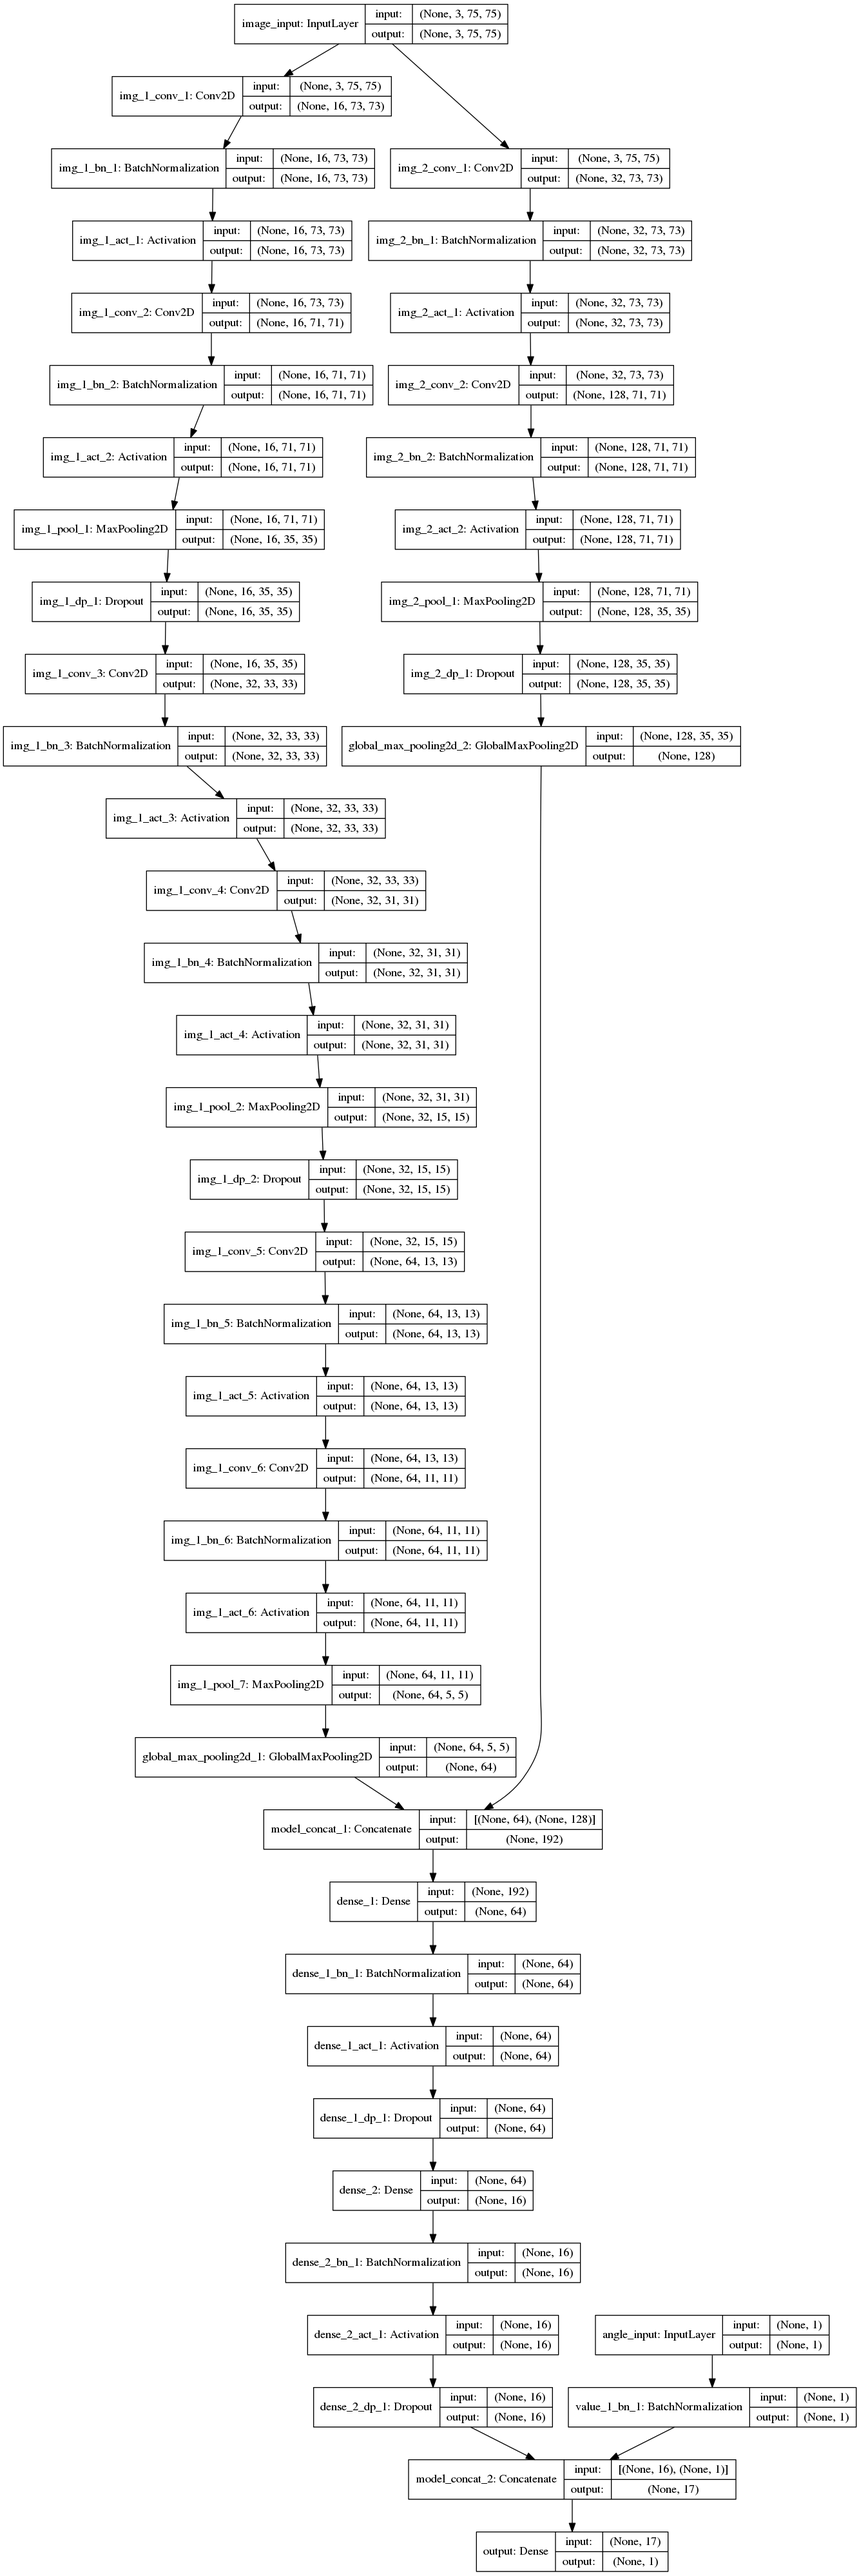
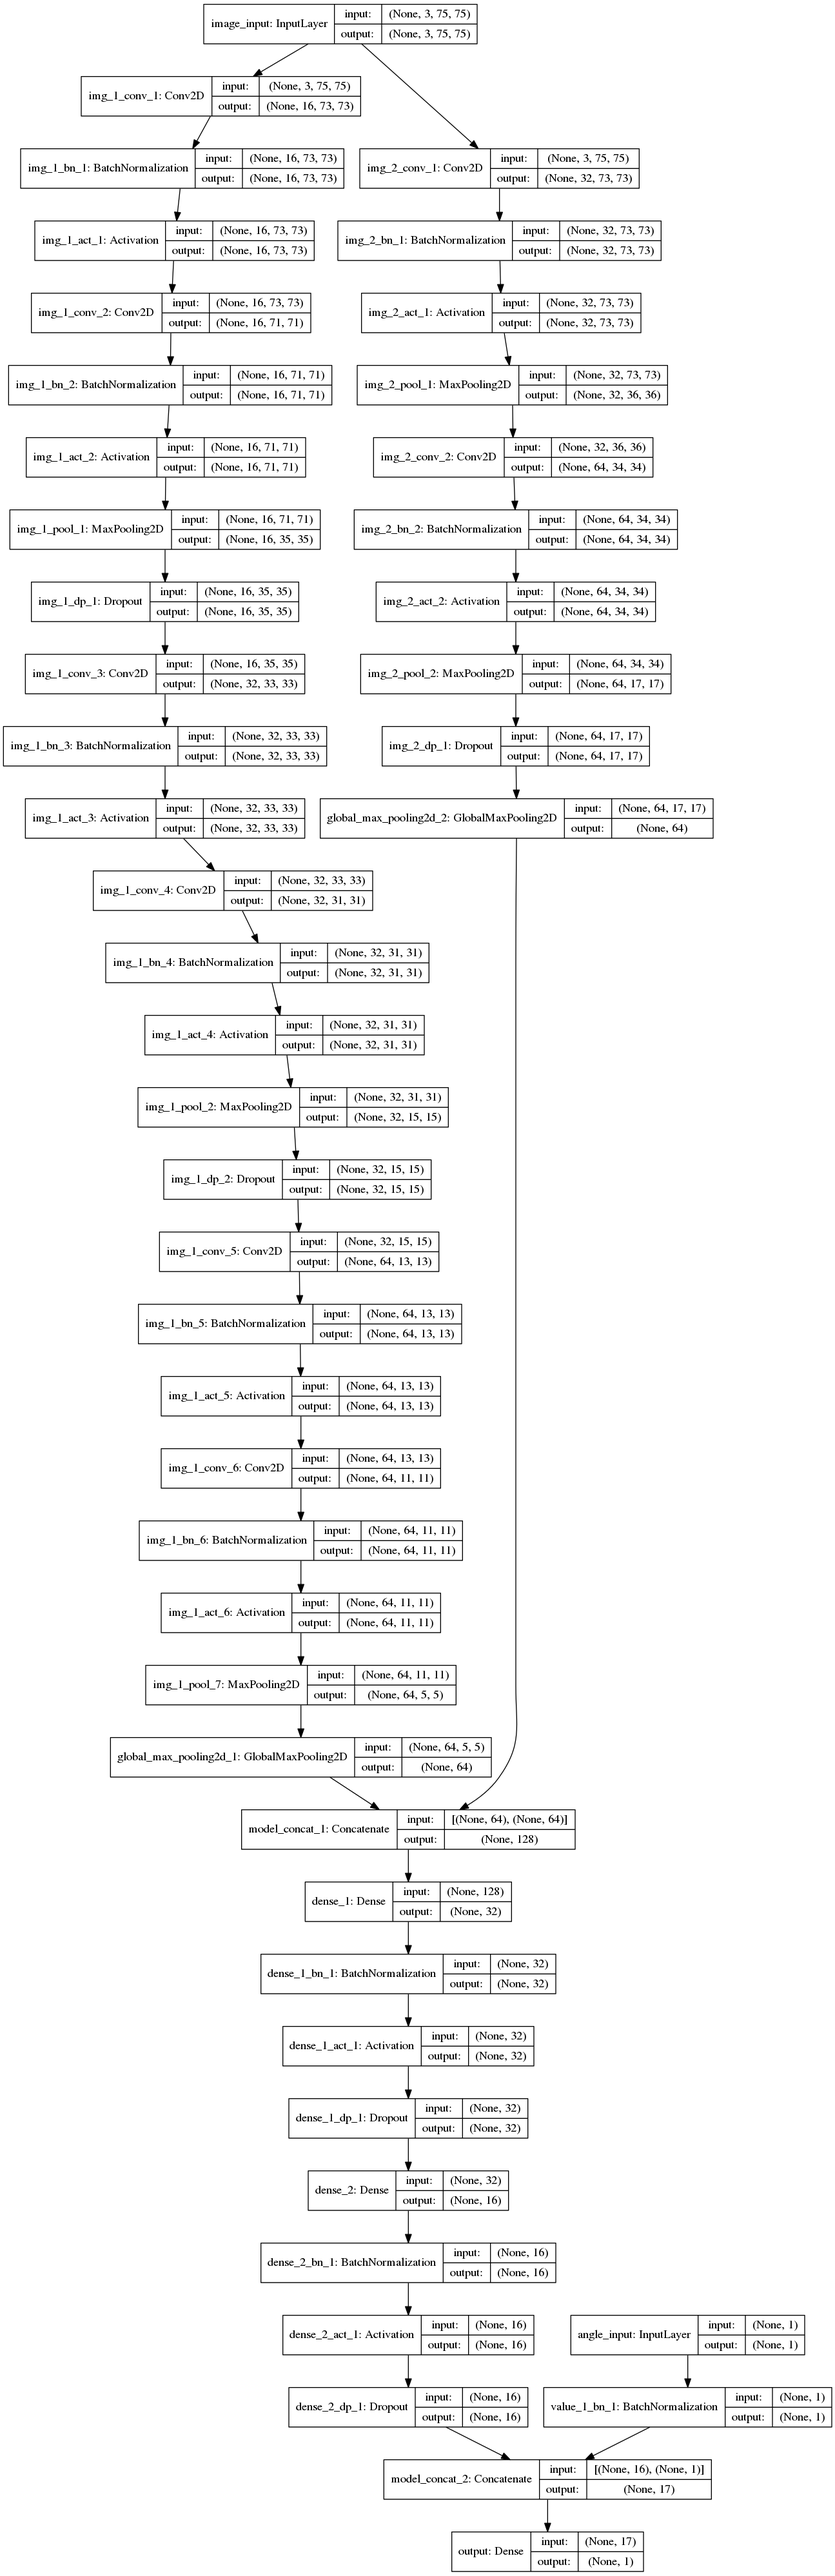
mini fixes

diff --git a/models/model/simple.py b/models/model/simple.py
@@ -58,7 +58,7 @@ def model(weights_path=None):
 
     _img_2 = MaxPooling2D((2, 2), name="img_2_pool_1")(_img_2)
 
-    _img_2 = Conv2D(128, (3, 3), name="img_2_conv_2")(_img_2)
+    _img_2 = Conv2D(64, (3, 3), name="img_2_conv_2")(_img_2)
     _img_2 = BatchNormalization(axis=1, name="img_2_bn_2")(_img_2)
     _img_2 = Activation(act, name="img_2_act_2")(_img_2)
 
@@ -69,7 +69,7 @@ def model(weights_path=None):
 
     _concat_1 = layers.concatenate([_img_1, _img_2], name='model_concat_1')
 
-    _dense_1 = Dense(64, kernel_regularizer=l2(1e-4), name="dense_1")(_concat_1)
+    _dense_1 = Dense(32, kernel_regularizer=l2(1e-4), name="dense_1")(_concat_1)
     _dense_1 = BatchNormalization(axis=1, name="dense_1_bn_1")(_dense_1)
     _dense_1 = Activation(act, name="dense_1_act_1")(_dense_1)
     _dense_1 = Dropout(dp, name="dense_1_dp_1")(_dense_1)

diff --git a/utils/common.py b/utils/common.py
@@ -47,10 +47,10 @@ def aug(x_array, angle_array, y_array, x, a, y):
     angle_array = np.concatenate((angle_array, [a]))
 
     # flip v
-    flip_v = np.flip(x, 1)
-    x_array = np.concatenate((x_array, [flip_v]))
-    y_array = np.concatenate((y_array, [y]))
-    angle_array = np.concatenate((angle_array, [a]))
+    # flip_v = np.flip(x, 1)
+    # x_array = np.concatenate((x_array, [flip_v]))
+    # y_array = np.concatenate((y_array, [y]))
+    # angle_array = np.concatenate((angle_array, [a]))
 
     # random crop with 32px shift
     # TODO Kind of overfit preventing technique

diff --git a/fit.py b/fit.py
@@ -12,12 +12,11 @@ from models.model.simple import model as simple
 from models.resnet50.cresnet50 import model as cres_model
 
 st_time = time.time()
-BATCH_SIZE = 50
+BATCH_SIZE = 400
 WIDTH = 75
 HEIGHT = 75
 N_EPOCH = 400
 AUGMENT = True
-REG = 1e-4
 
 # Read in our input data
 df_train = pd.read_json('resource/train_split.json')
